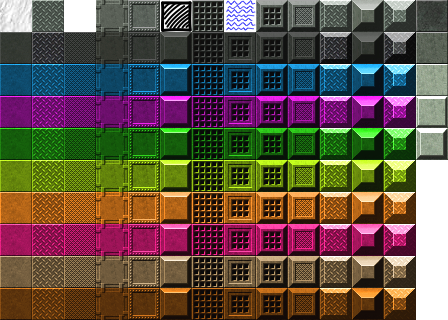
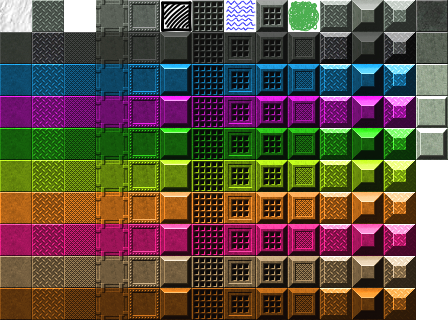
Add player sprite with all states

Changed region(s): [[0.625, 0.0, 0.7188, 0.125]]

diff --git a/src/states/Game.js b/src/states/Game.js
@@ -362,8 +362,15 @@ export default class extends Phaser.State {
   }
 
   getFrameNumberForPlayer() {
+
+    let currentItem = window.TheLostSon.playerInventory.getInventoryItem()
+
     if (window.TheLostSon.playerInventory.isSonWithYou()) {
+      return 3;
+    } else if (currentItem !== null && currentItem.isIcecream()) {
       return 1;
+    } else if (currentItem !== null && currentItem.isKey()) {
+      return 2;
     } else {
       return 0;
     }

diff --git a/src/sprites/son.js b/src/sprites/son.js
@@ -14,7 +14,7 @@ export default class Son extends Phaser.Sprite {
     if (currentItem != null &&
         currentItem.isIcecream()) {
       window.TheLostSon.playerInventory.convinceSon();
-      player.frame = 1;
+      player.frame = 3;
       player.game.velo = 200;
       son.destroy();
     }

diff --git a/src/sprites/chest.js b/src/sprites/chest.js
@@ -29,7 +29,7 @@ export default class Chest extends Phaser.Sprite {
       window.TheLostSon.playerInventory.useKeyOnChest();
 
       window.TheLostSon.playerInventory.receiveIceCream();
-      player.loadTexture('star_with_power', 0);
+      player.frame = 1;
     }
   }
 

diff --git a/src/sprites/icecream.js b/src/sprites/icecream.js
@@ -18,6 +18,7 @@ export default class IceCream extends Phaser.Sprite {
       window.TheLostSon.playerInventory.collectIcecream();
       player.game.velo = 200;
       ice_cream.remove();
+      player.frame = 1;
     }
   }
 

diff --git a/src/sprites/key.js b/src/sprites/key.js
@@ -18,6 +18,7 @@ export default class Key extends Phaser.Sprite {
       window.TheLostSon.playerInventory.collectKey();
       player.game.velo = 200;
       key.remove();
+      player.frame = 2;
     }
   }
 
